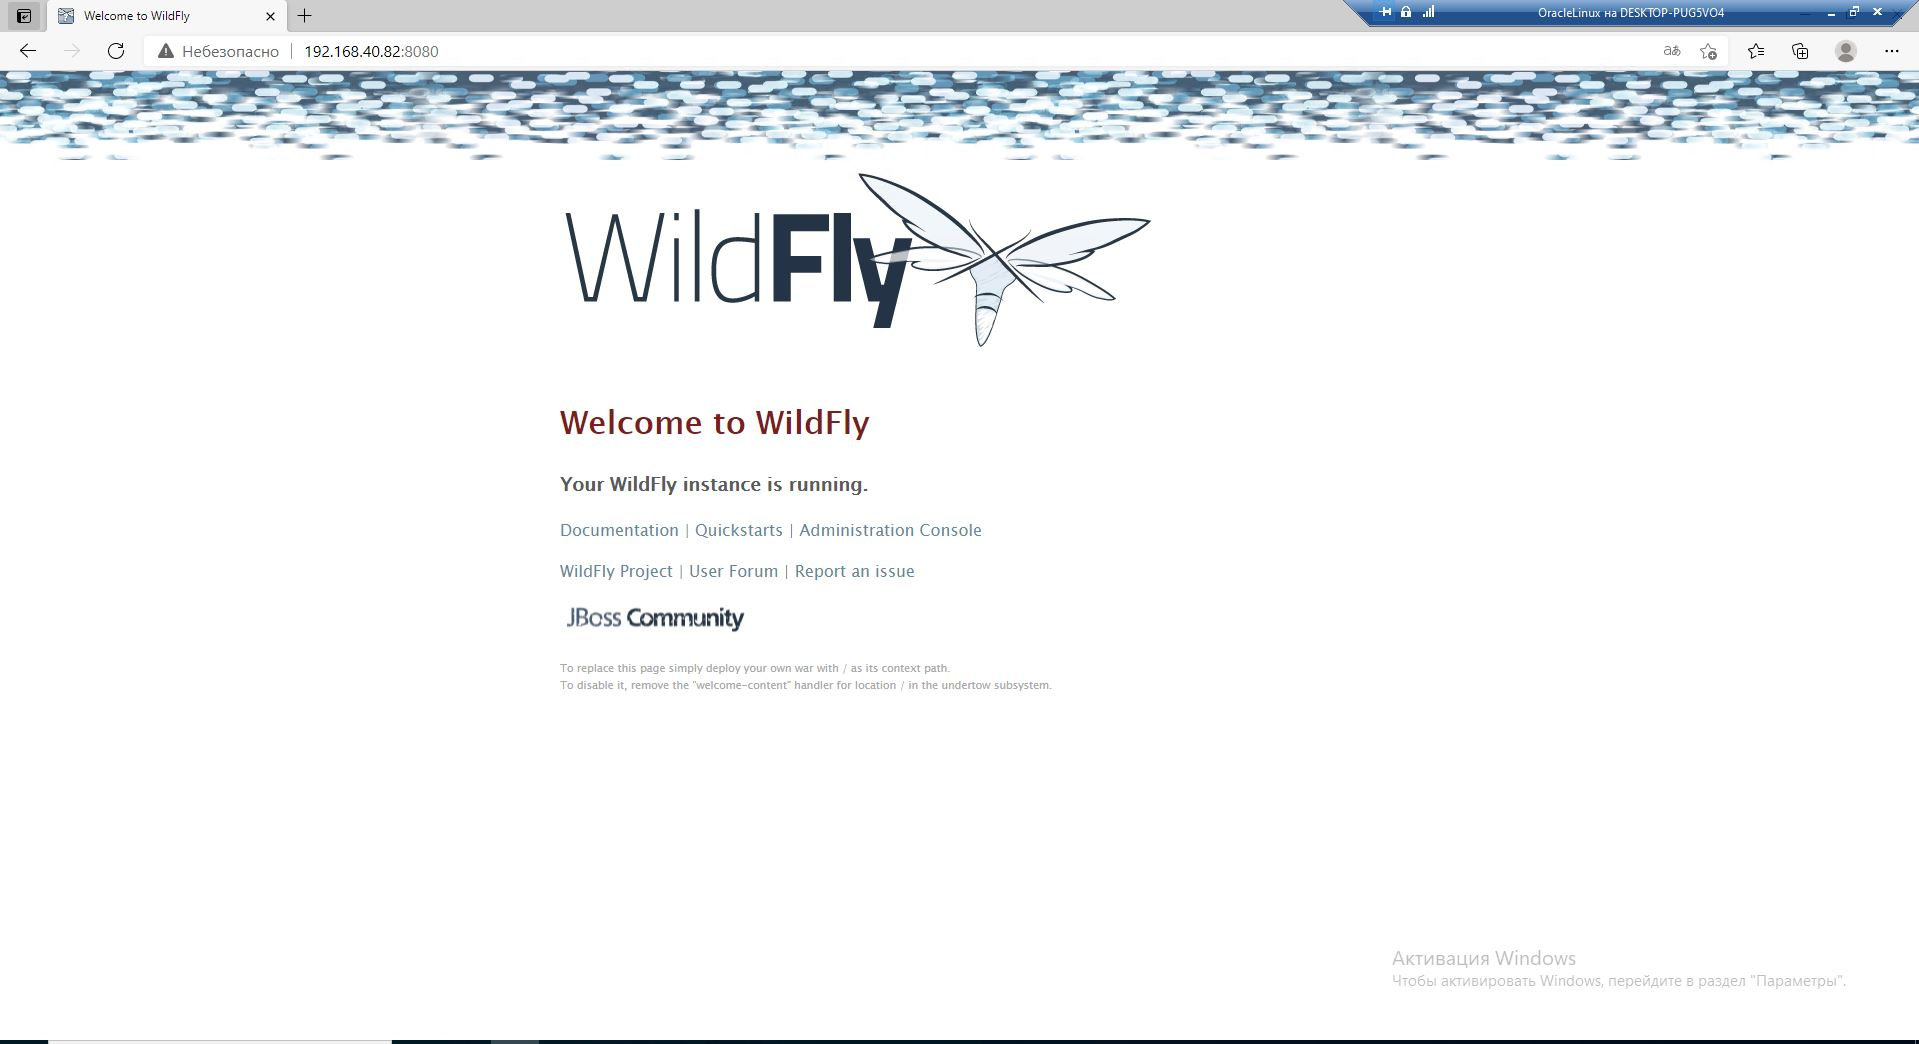
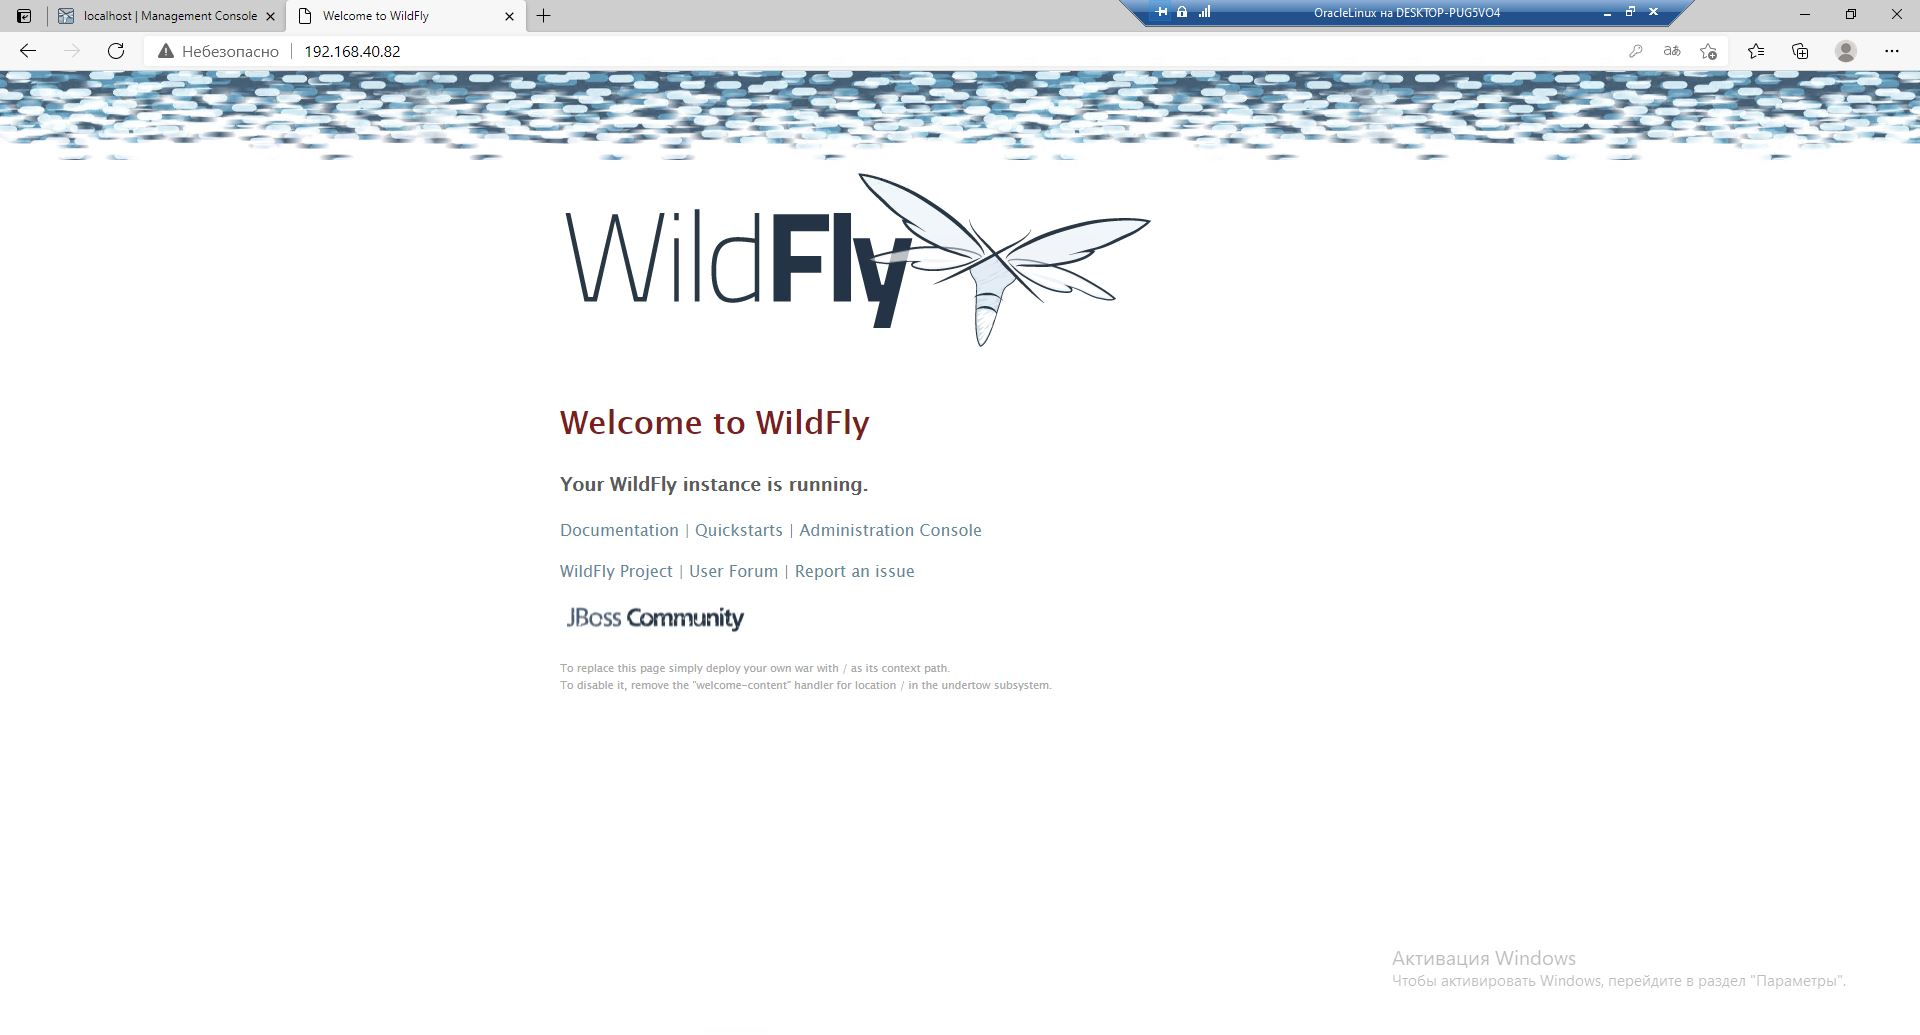
v1.5

diff --git a/Sber_1/README.md b/Sber_1/README.md
@@ -1,3 +1,30 @@
 <p><img src="../Sber_1/img/scr1.JPG"></p>
 <p><img src="../Sber_1/img/scr2.JPG"></p>
+<p>Вот такой конфиг у меня получился:
+<pre><code>http {
+ server {
+   listen 80;
+   listen [::]:80;
+
+   server_name 192.168.40.82;
+
+   location / {
+       proxy_pass http://127.0.0.1:8080/;
+       proxy_set_header Host $host;
+   }
+ }
+ server {
+   listen 90;
+   listen [::]:90;
+
+   server_name 192.168.40.82;
+
+   location / {
+       proxy_pass http://127.0.0.1:9990/;
+       proxy_set_header X-Forwarded-For $proxy_add_x_forwarded_for;
+       proxy_set_header Host $server_addr:$server_port;
+       proxy_set_header X-Real-IP $remote_addr;
+   }
+ }
+}</code></pre></p>
 
